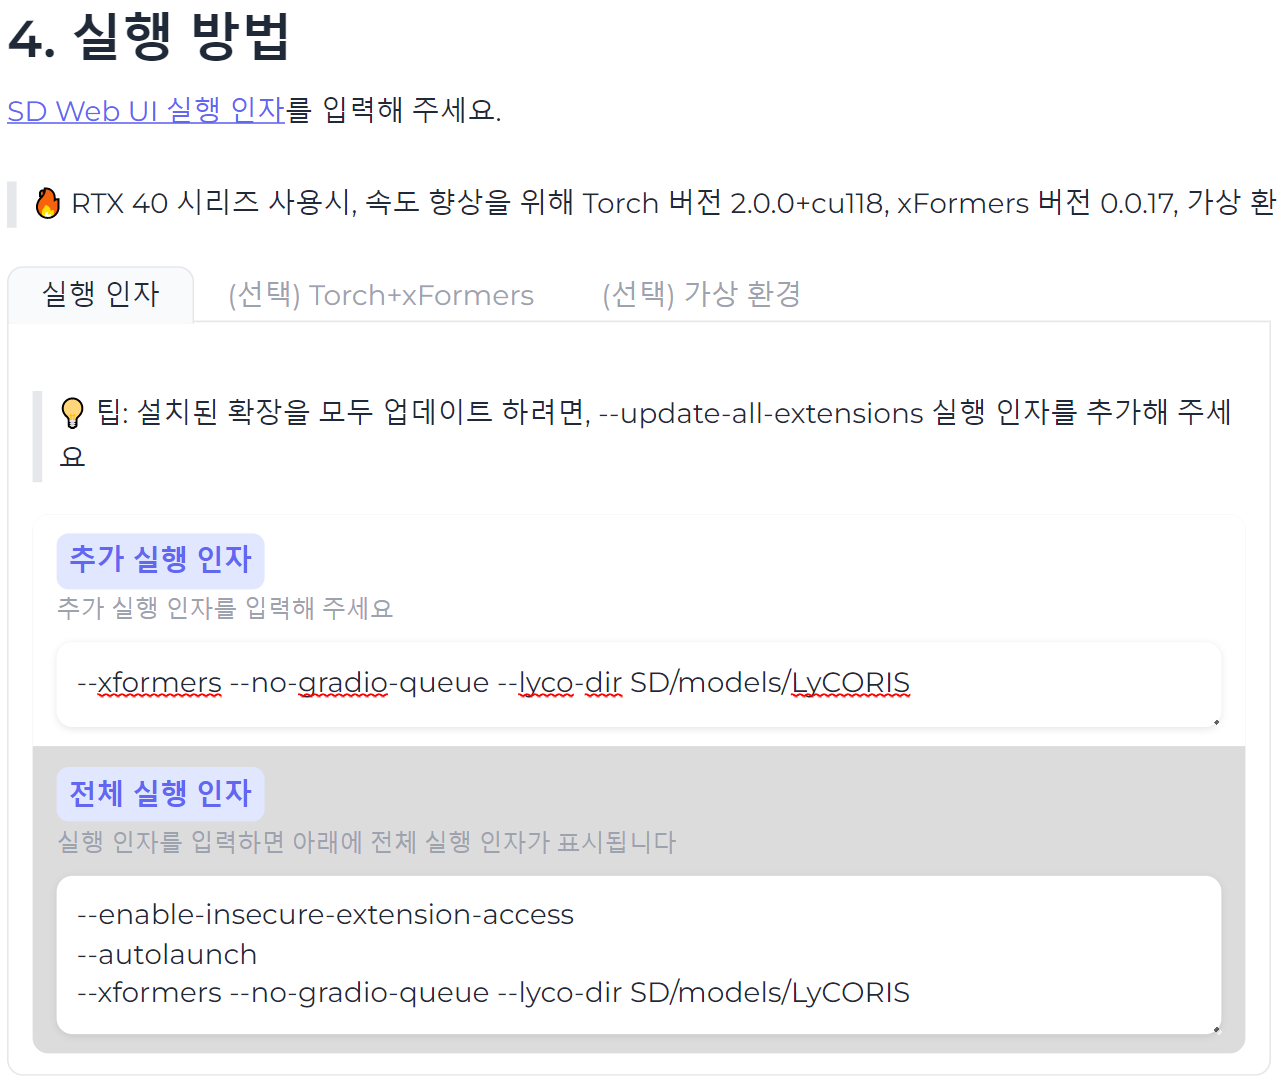
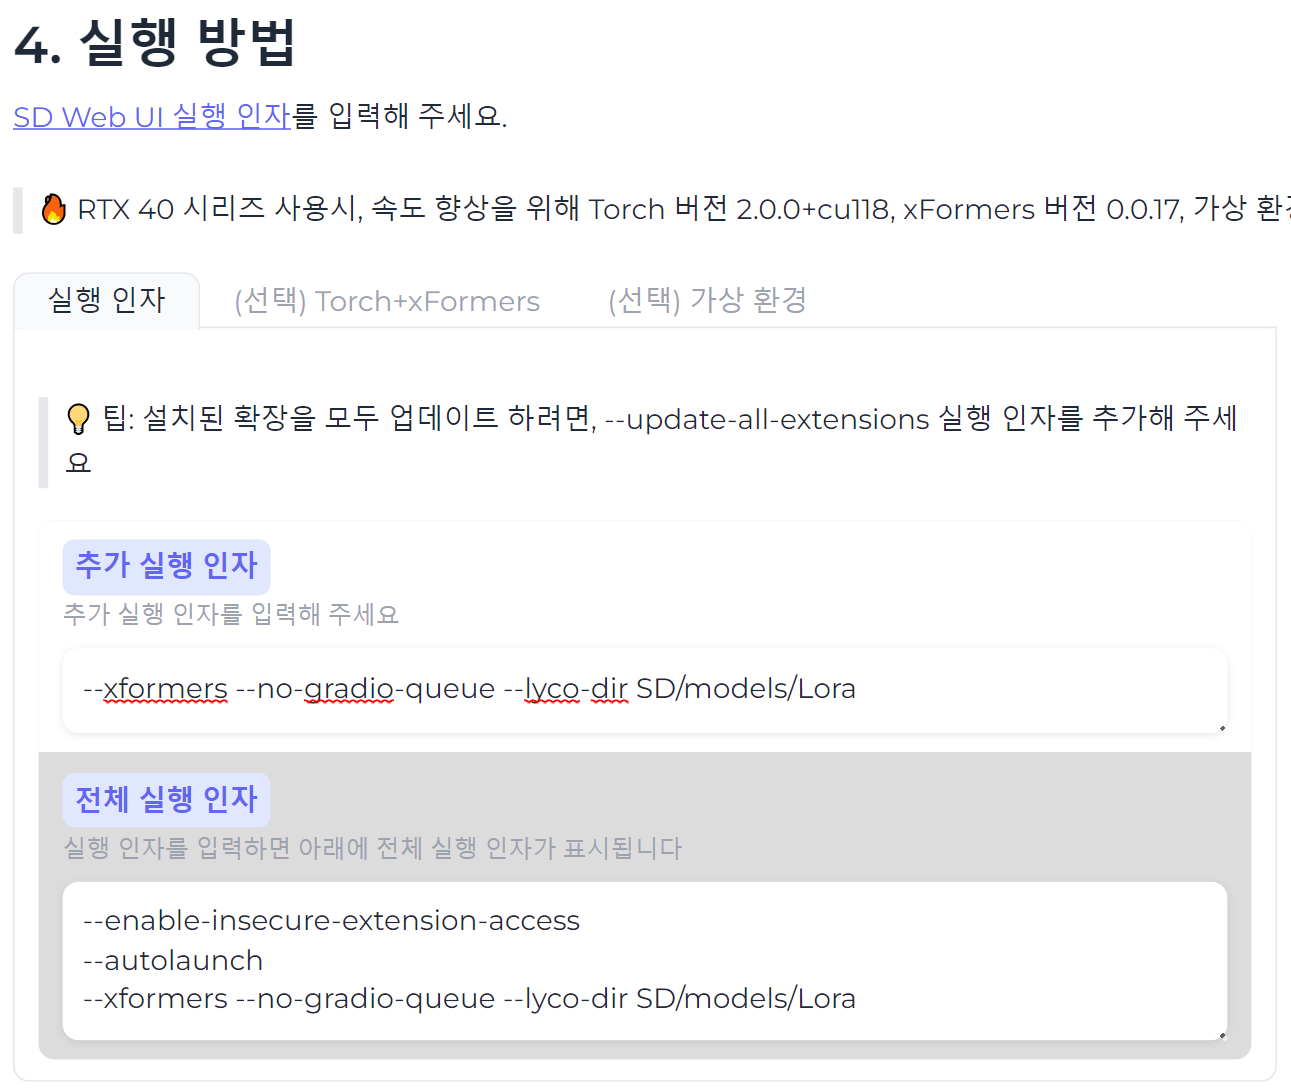
a1111-sd-webui-lycoris 확장 로라 경로 설정 설명 추가

diff --git a/docs/settings/README.md b/docs/settings/README.md
@@ -35,7 +35,7 @@
 
 
 ## a1111-sd-webui-lycoris 확장 로라 경로 설정
-> 추가 실행 인자에 --lyco-dir [작업 디렉터리 이름]/models/LyCORIS
+> 추가 실행 인자에 --lyco-dir [작업 디렉터리 이름]/models/Lora
 
 ![image](./LyCORIS.png)
 <br>
